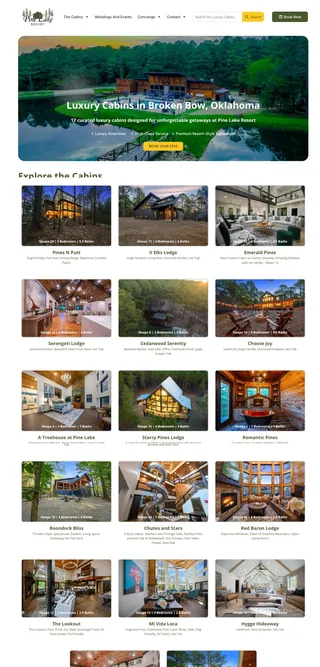
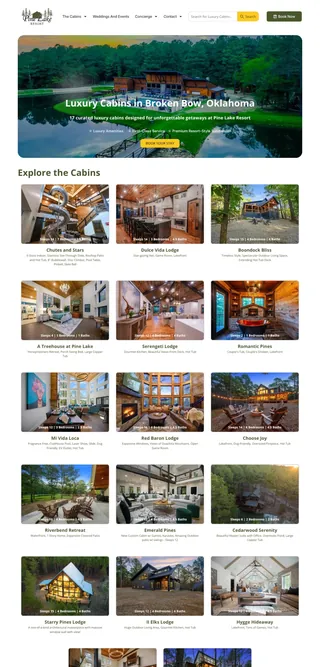
feat(projects): new PineLake capture, shorter thumbnails and a new card order
- Replace the PineLake cover with the corrected capture (same 1296x2700
  frames) and regenerate its 320/640/960 WebP derivatives.
- Card media drops from 4:3 to 3:2, about 11% shorter: 281px on the Projects
  grid (was 316px), 233px at 390px mobile. The inset shot still runs to the
  bottom edge (250.9px of 281px).
- Reorder the cards so Green Nation, Lemmbra Olympiad and Molina Chambô lead:
  order values 1-6 and an identity gridOrder keep the Projects grid, Home
  rail and related projects in the same sequence (green, lemmbra, molina,
  pinelake, waipono, bsa).

diff --git a/src/styles/global.css b/src/styles/global.css
@@ -754,10 +754,10 @@ img {
   min-width: 0;
 }
 .project-media {
-  /* Square frame: the inset screenshot sits at the top over the project tint
-     and expands to fill the whole frame on hover. */
+  /* Rectangular frame, ~10% shorter than 4:3: the inset screenshot runs
+     to the bottom edge and expands to fill the frame on hover. */
   height: auto;
-  aspect-ratio: 4 / 3;
+  aspect-ratio: 3 / 2;
   container-type: inline-size;
   display: block;
   overflow: hidden;

diff --git a/src/content/projects/lemmbra-olympiad.md b/src/content/projects/lemmbra-olympiad.md
@@ -1,6 +1,6 @@
 ---
 title: "Lemmbra Olympiad: identity and registration"
-order: 6
+order: 2
 category: "Identity & platform"
 year: "2024"
 country: "Brazil · Germany"

diff --git a/src/content/projects/pinelake-broken-bow.md b/src/content/projects/pinelake-broken-bow.md
@@ -1,6 +1,6 @@
 ---
 title: "PineLake Broken Bow: luxury cabin rentals"
-order: 1
+order: 4
 category: "Web design & dev"
 year: "2025"
 country: "USA"

diff --git a/src/content/projects/green-nation-collective.md b/src/content/projects/green-nation-collective.md
@@ -1,6 +1,6 @@
 ---
 title: "Green Nation Collective: campaign launch"
-order: 2
+order: 1
 category: "Campaign site"
 year: "2025"
 country: "USA"

diff --git a/src/content/projects/bsa-legal.md b/src/content/projects/bsa-legal.md
@@ -1,6 +1,6 @@
 ---
 title: "BSA Legal: corporate website"
-order: 4
+order: 6
 category: "Web design & dev"
 year: "2025"
 country: "Brazil"
